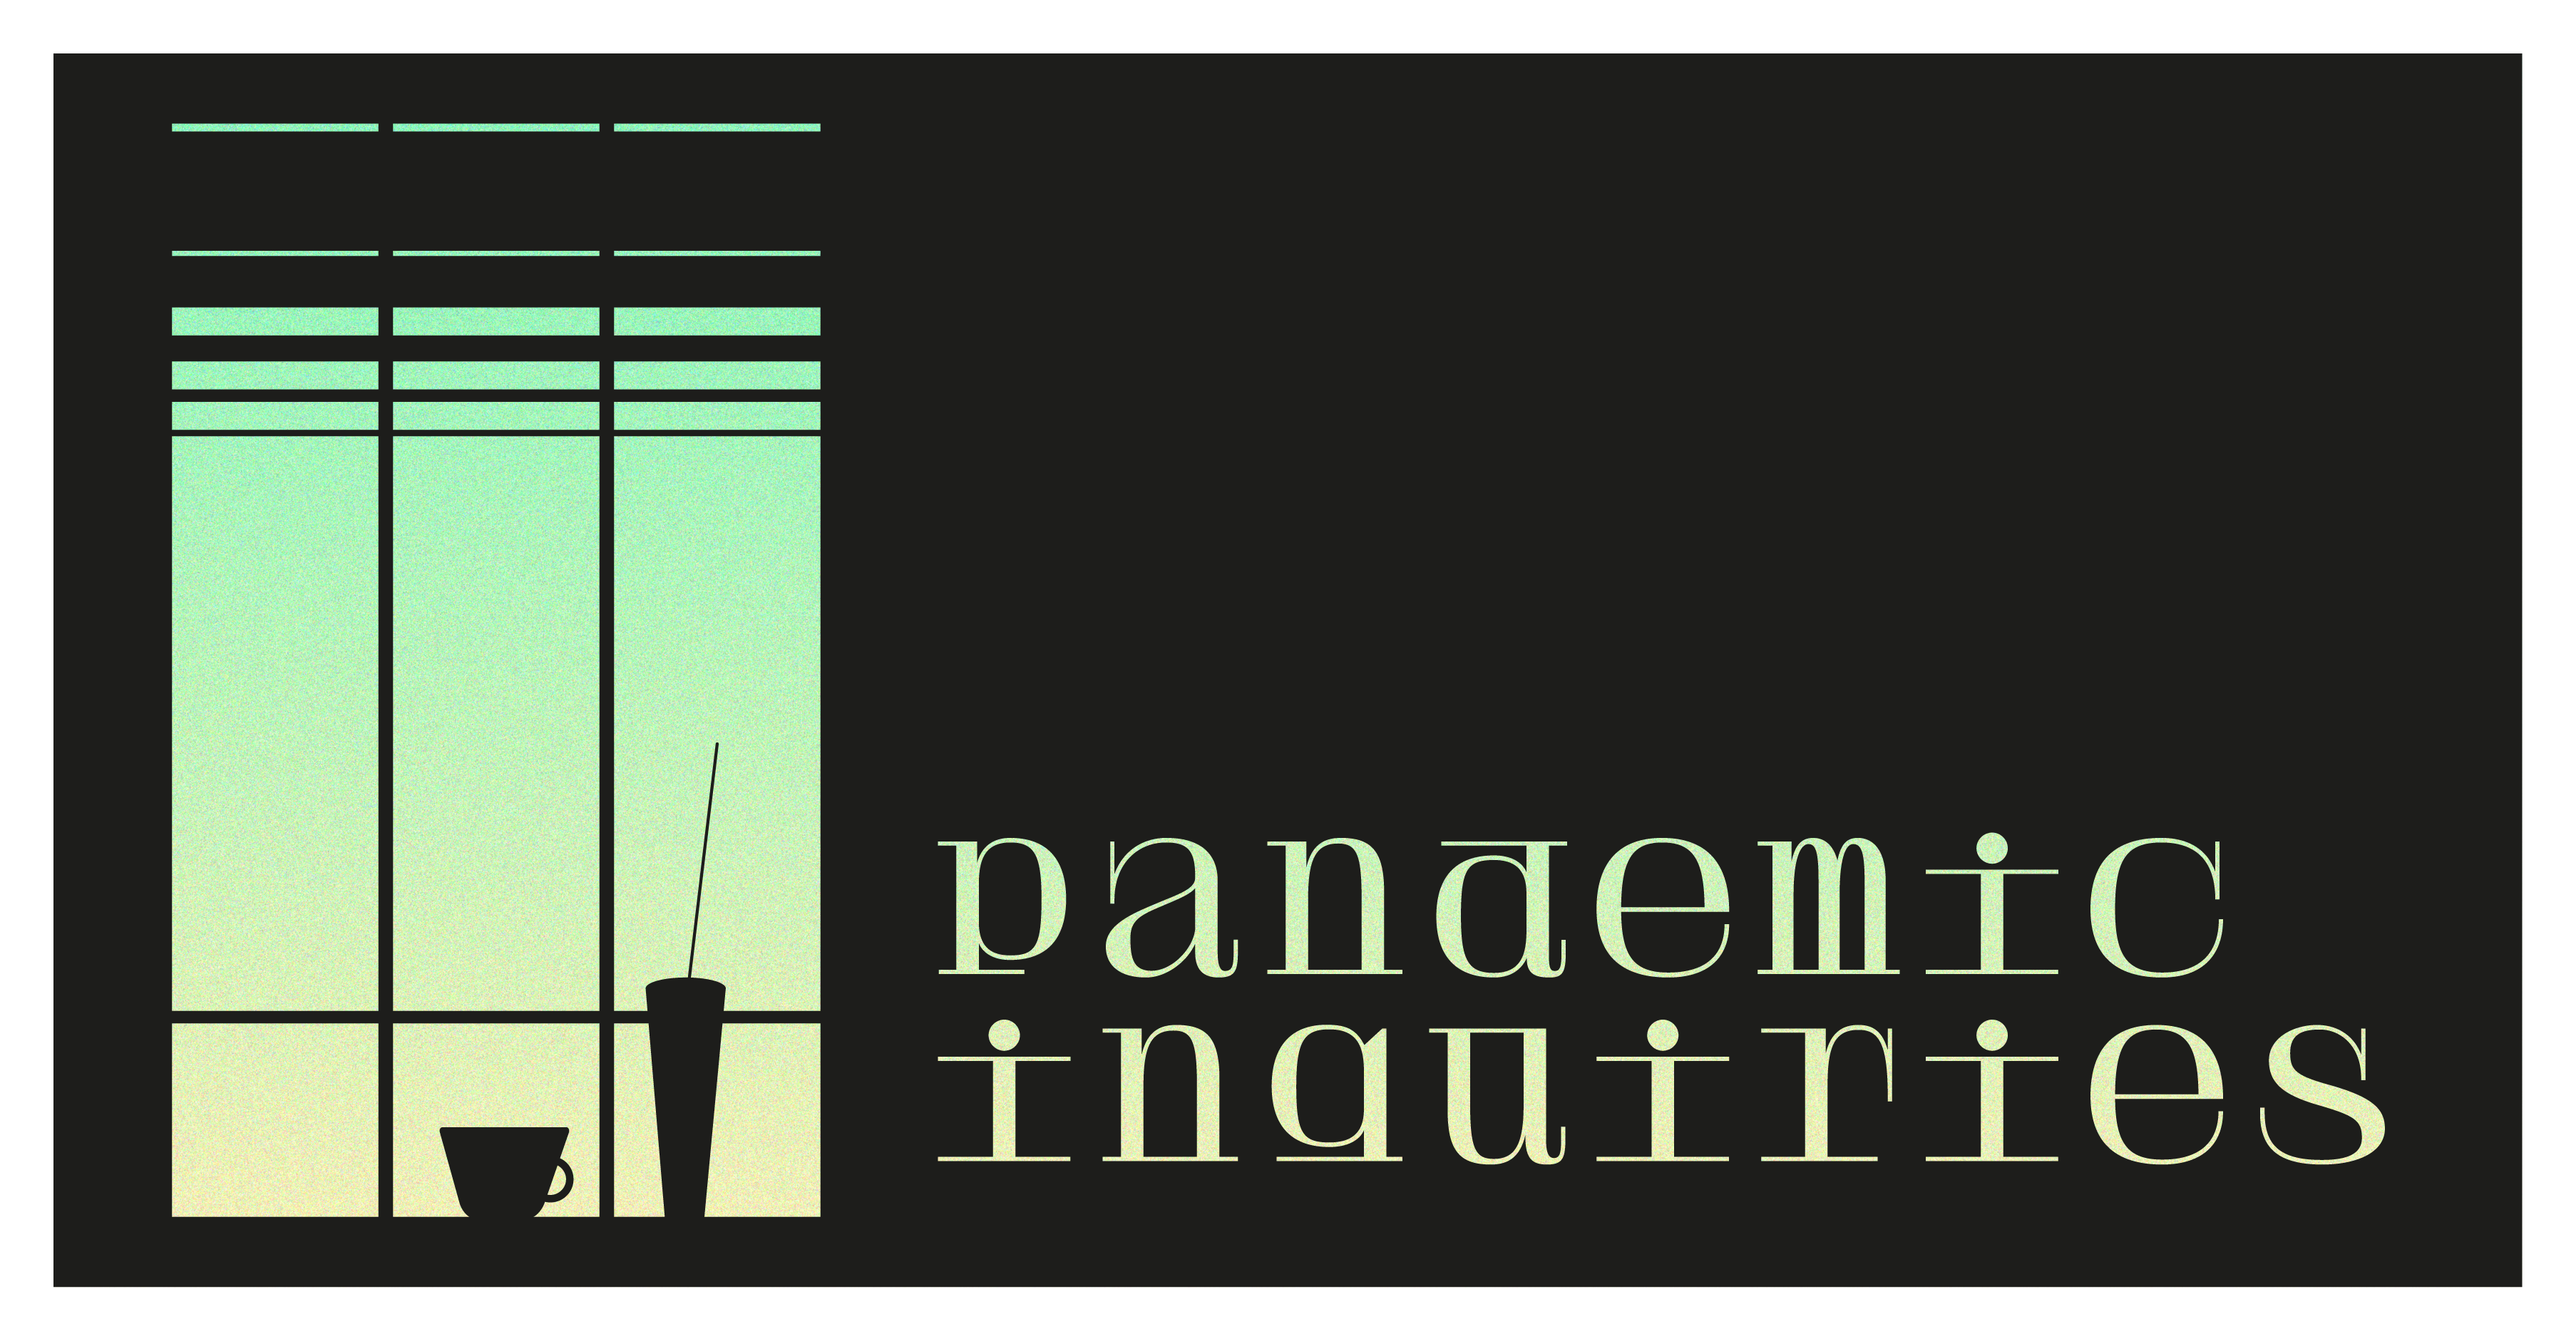
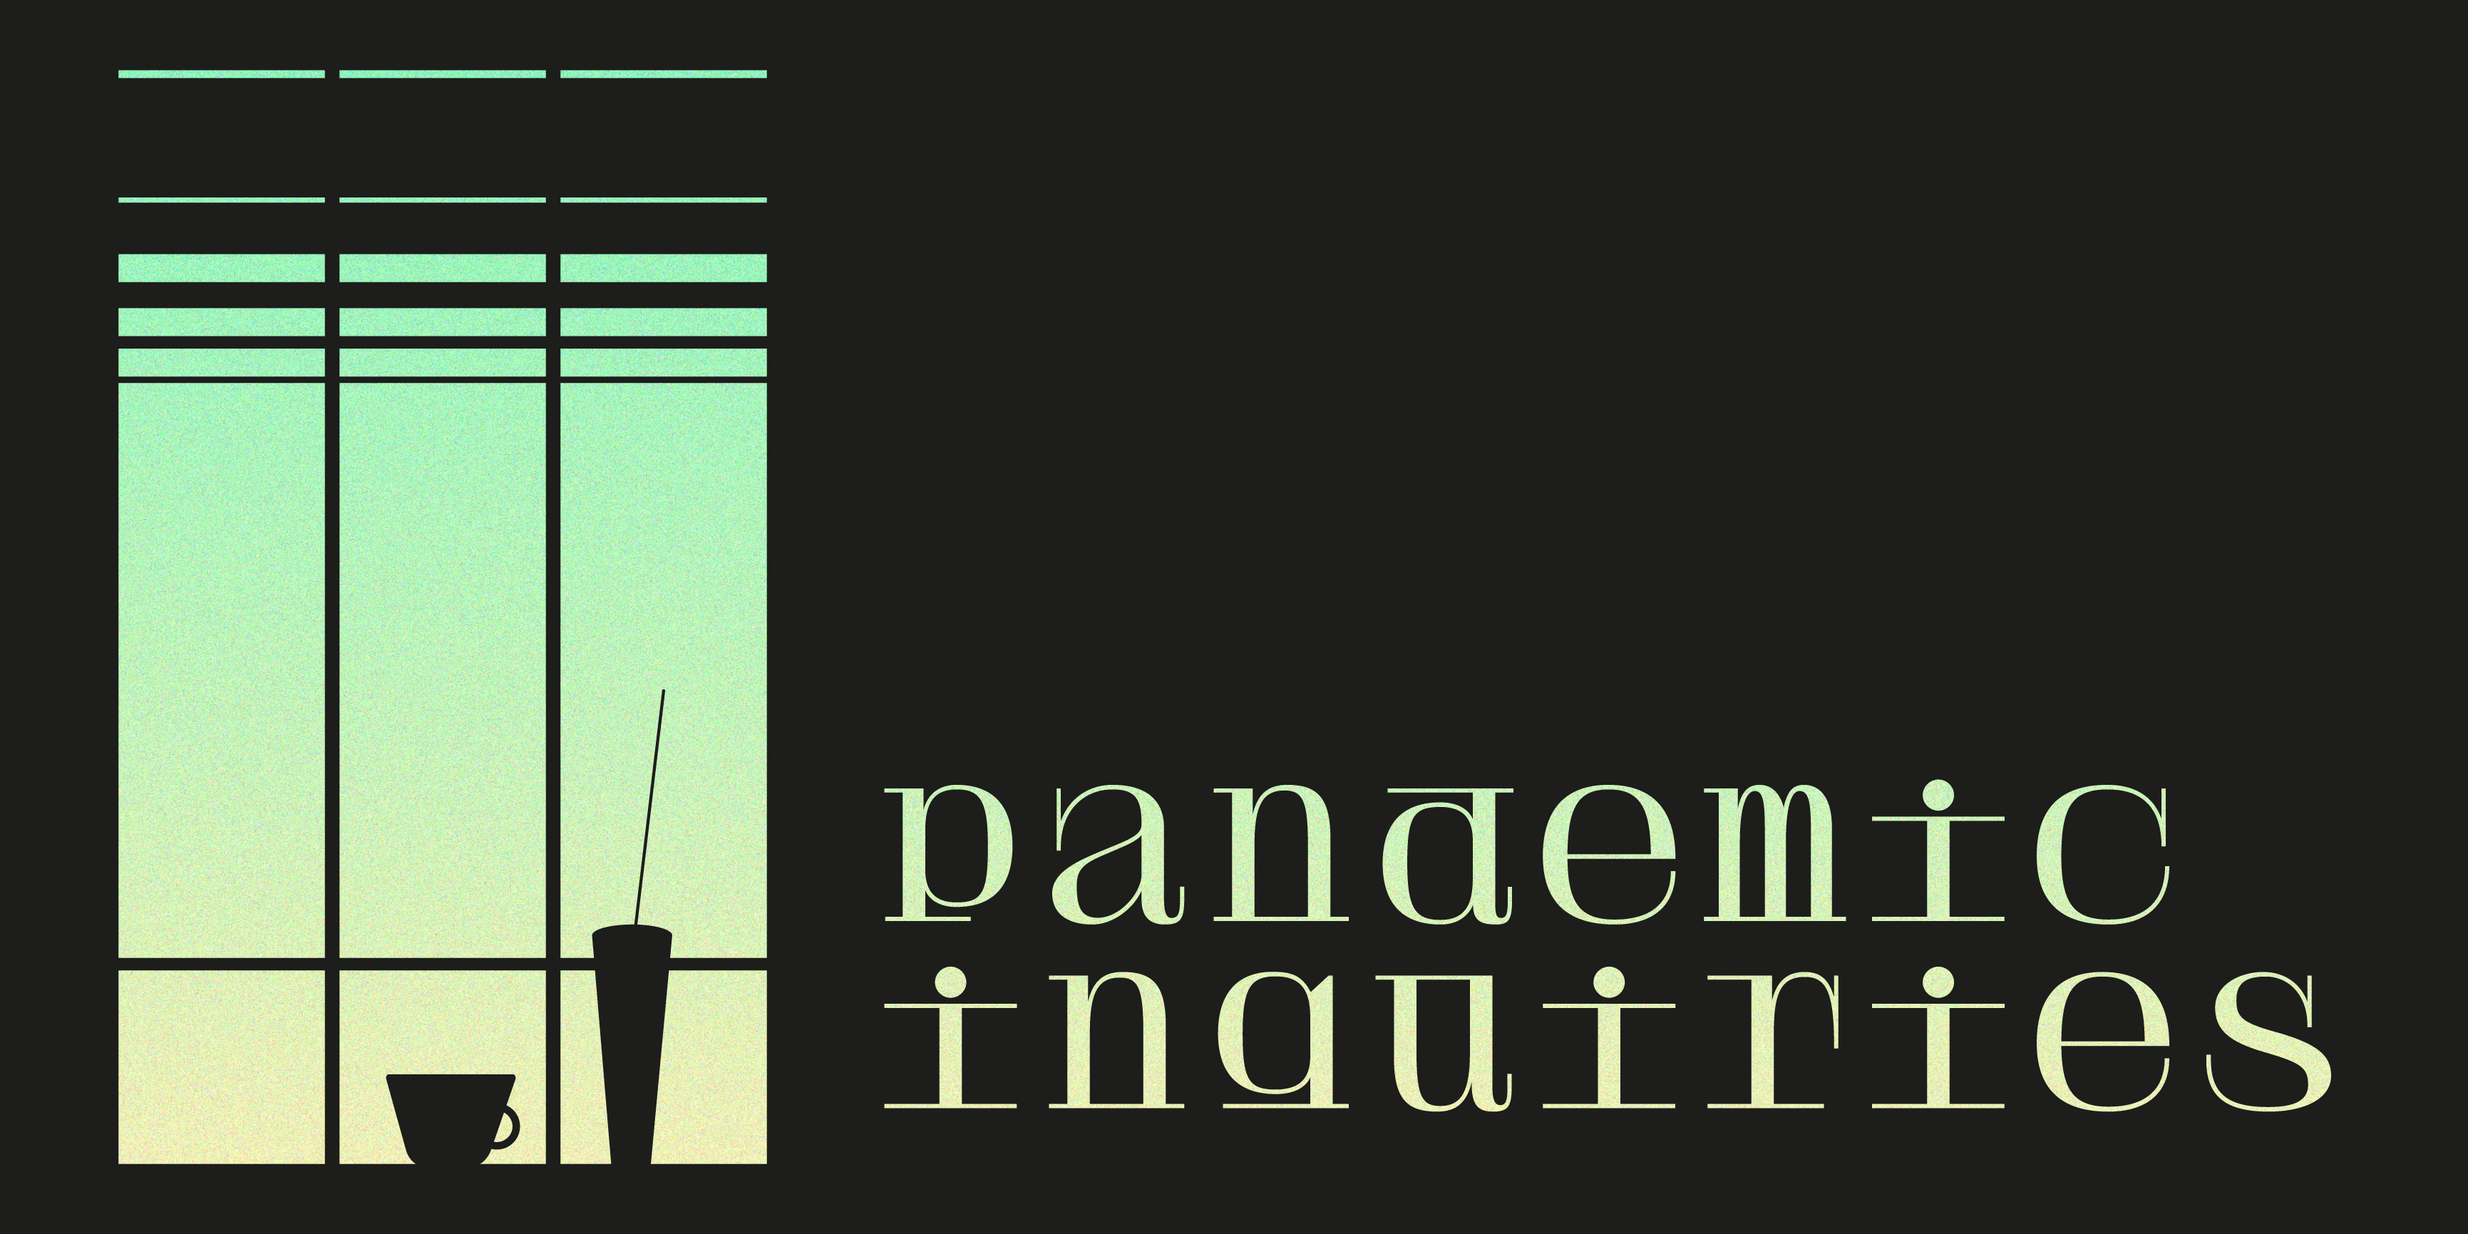
meta smaller

diff --git a/views/components/head.html b/views/components/head.html
@@ -12,13 +12,13 @@
 	property="og:description"
 	content="Introducing ‘Pandemic Inquiries’, an Invert edition."
 />
-<meta property="og:image" content="https://invertjournal.org.uk/assets/images/pandemic-inquiries-meta.png" />
+<meta property="og:image" content="https://invertjournal.org.uk/assets/images/pandemic-inquiries-meta2.png" />
 <meta name="twitter:title" content="Invert Journal" />
 <meta
 	name="twitter:description"
 	content="Introducing ‘Pandemic Inquiries’, an Invert edition."
 />
-<meta name="twitter:image" content="https://invertjournal.org.uk/assets/images/pandemic-inquiries-meta.png" />
+<meta name="twitter:image" content="https://invertjournal.org.uk/assets/images/pandemic-inquiries-meta2.png" />
 <meta name="twitter:card" content="summary_large_image" />
 
 <link rel="icon" type="image/png" sizes="192x192" href="./assets/images/fav/android-icon-192x192.png" />
